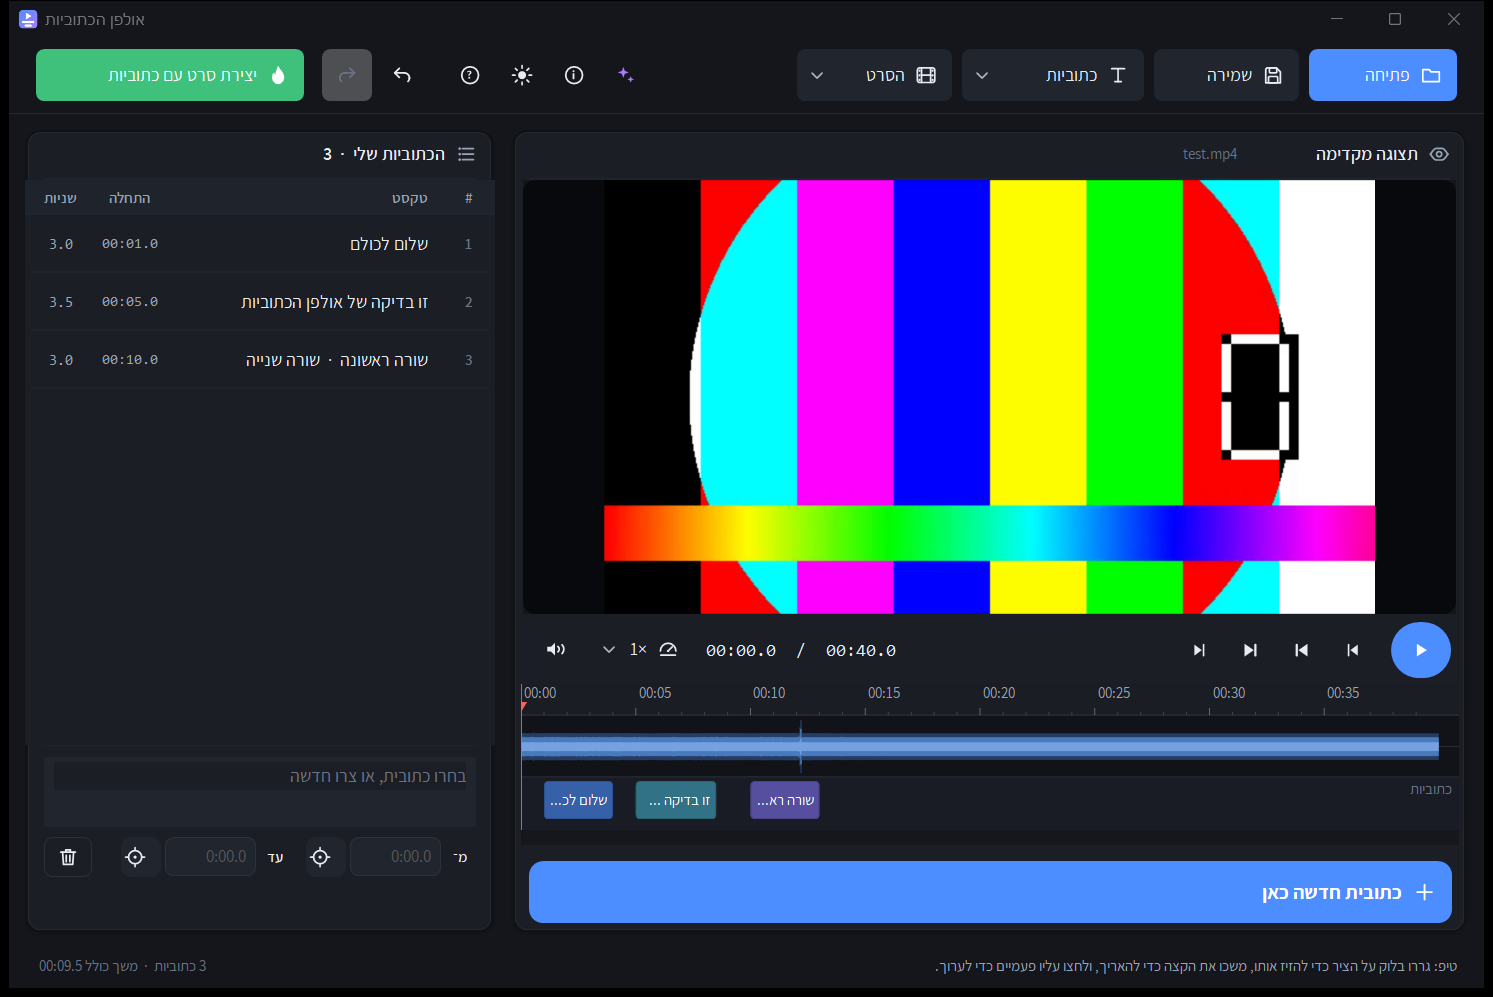
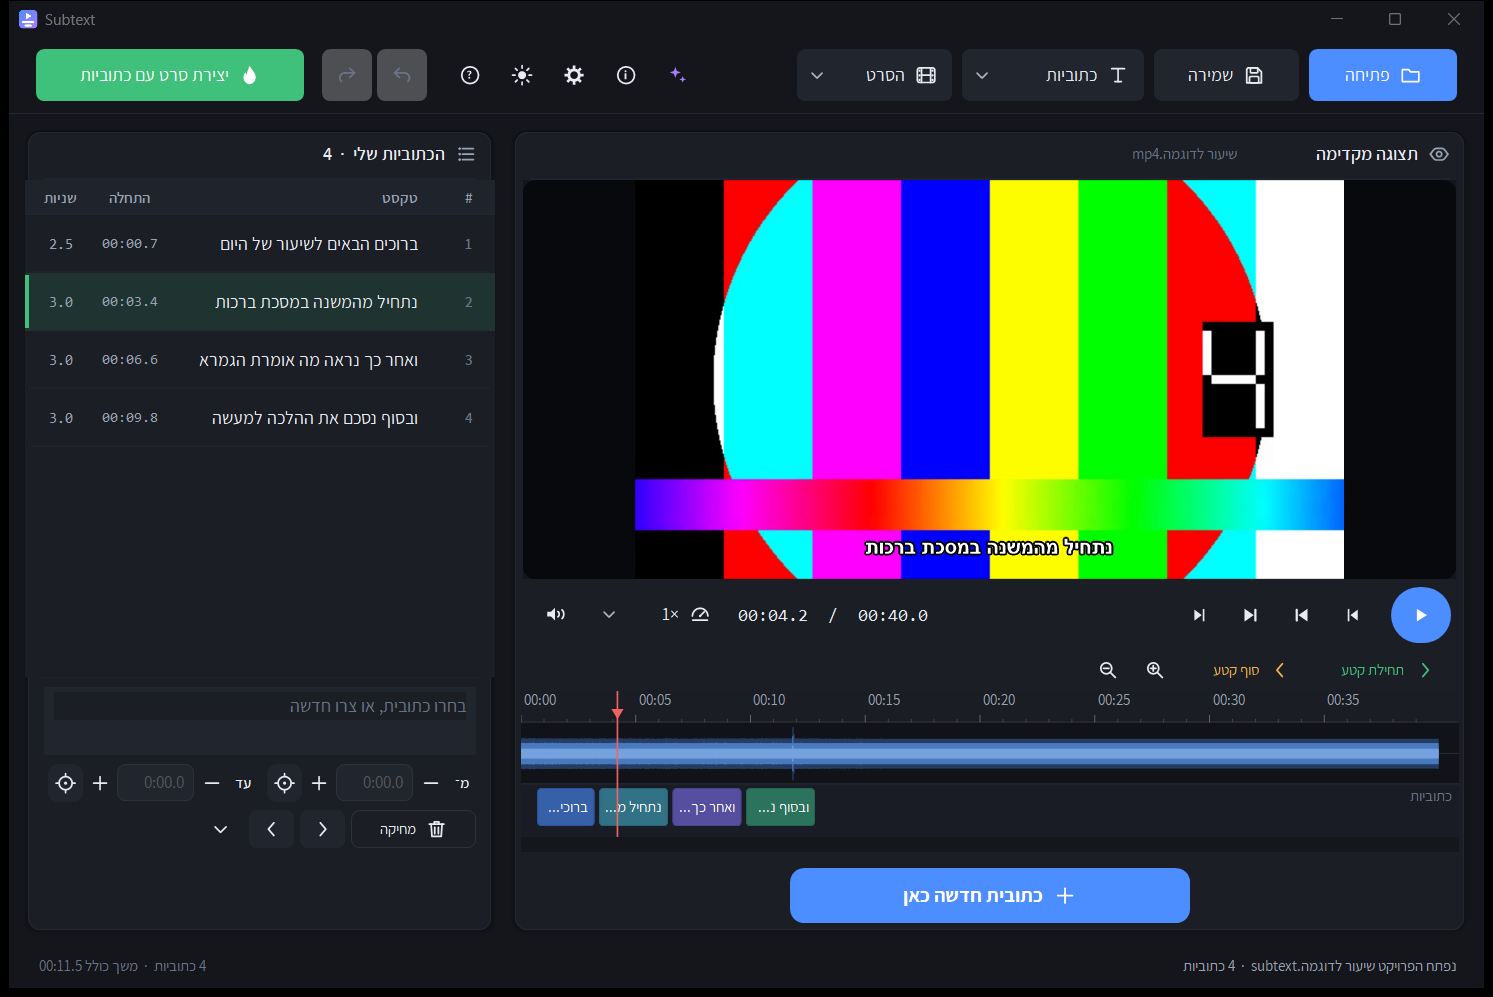
Docs: refreshed screenshots (they still showed the old name), wording that survives RTL, README size
- start.png, start-light.png and editor.png came from 0.3 and showed the Hebrew title. The README front page showed the old brand.
- changelog: '.sub or .txt' rendered as 'sub. or txt.' inside Hebrew text in the update window. Now 'sub or txt'.
- README said the file weighs 36MB; it is 38.

diff --git a/CHANGELOG.md b/CHANGELOG.md
@@ -21,7 +21,7 @@
 
 **תיקונים, וכמה מהם חשובים:**
 
-* **קובץ שנפתח מסוג `.sub` או `.txt` נדרס בפורמט אחר** כששמרתם. עכשיו
+* **קובץ מסוג sub או txt שנפתח נדרס בפורמט אחר** כששמרתם. עכשיו
   נשמר קובץ SRT חדש לידו, והמקור נשאר כמו שהיה.
 * **שמירה שנקטעה באמצע** (כונן מלא, דיסק-און-קי שנשלף) השאירה קובץ חתוך.
   עכשיו הקובץ הקודם נשאר שלם עד שהחדש נכתב במלואו.
